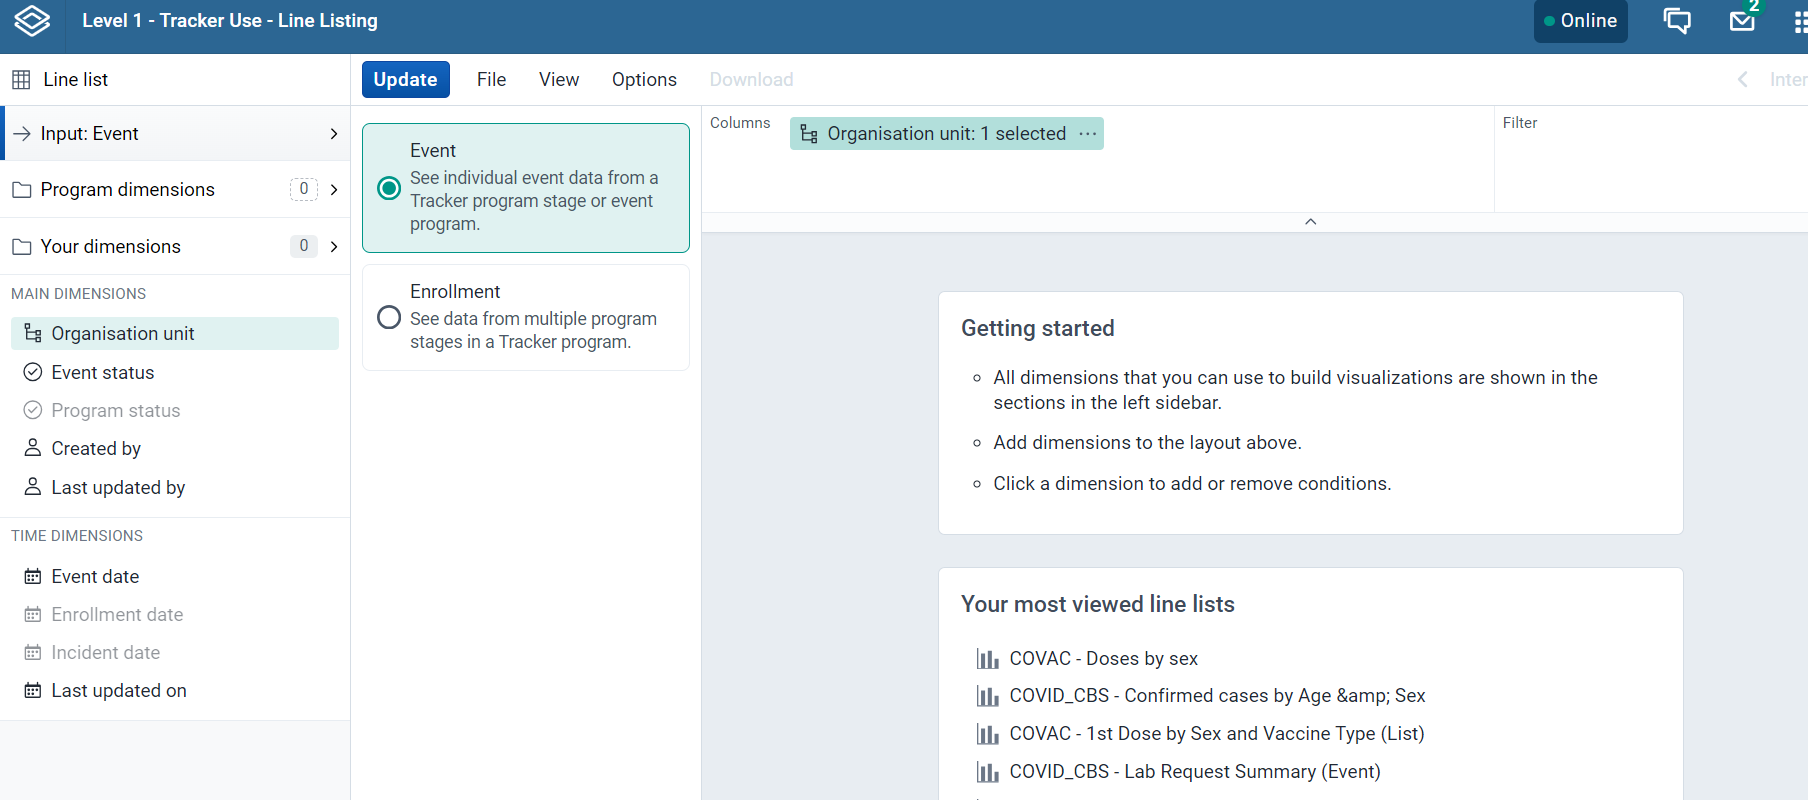
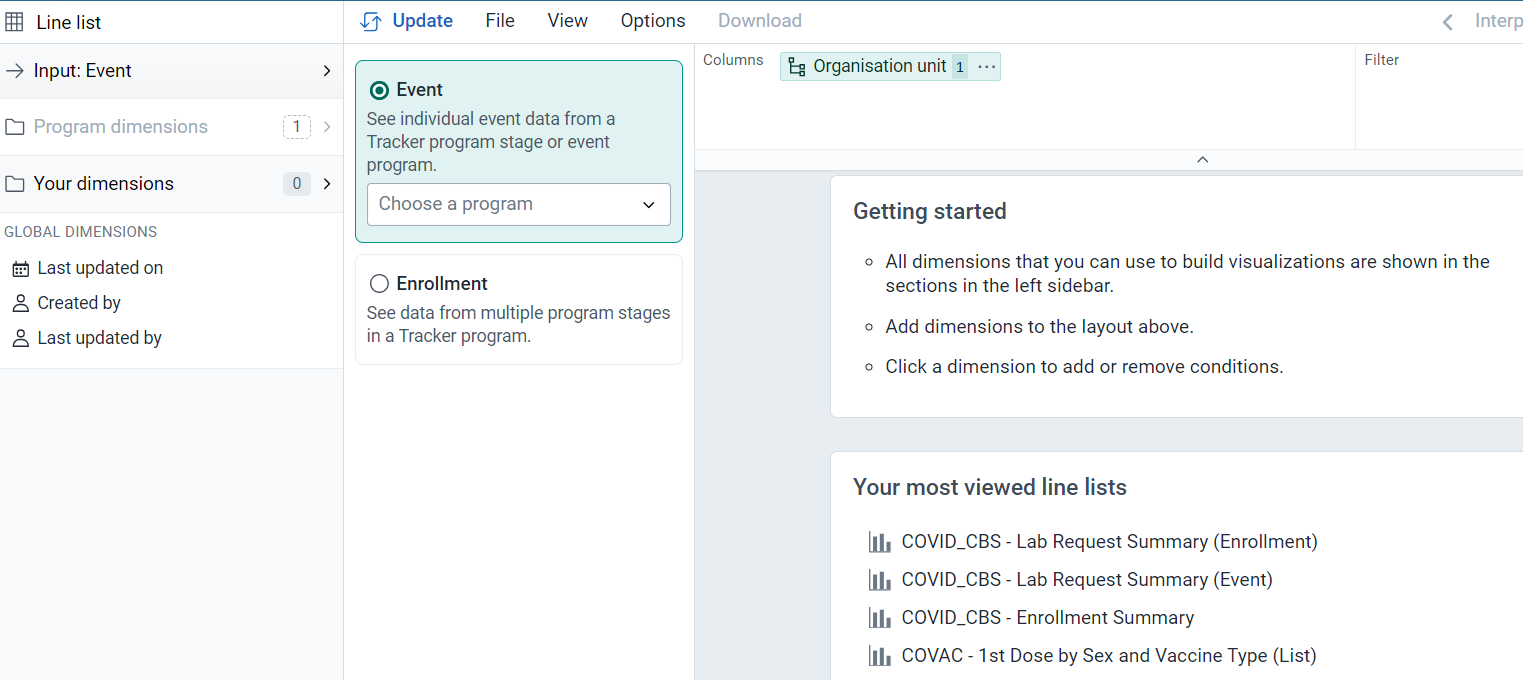
linelist

diff --git a/content/tracker_use/tg_line_list.md b/content/tracker_use/tg_line_list.md
@@ -61,7 +61,7 @@ In an in-person setting, the participants may be doing the demo with you at the 
 
 ![interface](resources/images/linelist/interface1.png)
 
-In the Line Listing app, you currently only have one type of selection which is Line list unlike eventr reports where you can have aggregate outputs.
+In the Line Listing app, you currently only have one type of selection which is Line list unlike event reports where you can have aggregate outputs.
 
 *NB: We will be using the line listing app to make line lists in this session. Therefore, we will only be using the "Pivot" table style in event reports to produce aggregate outputs. 
 
@@ -71,91 +71,174 @@ In Line List , Input can be selected as either
 * Event (see individual event data from an event program or a tracker program stage)
 * Enrollment periods (see data from multiple stages in a tracker program)
 
+If you have selected the **Event**, then for tracker programs you need to select the program stage to get all the data elements, attributes for that particular stage. To be able to select data from multiple stages you need to select "Enrollment" as the input type.
+
+If you select **Enrollment** in the Input tab then all data elements associated with the program will be available from different stages within the program for the purpose of cross stage selection of data elements. Each data element will act as a dimension.
+
+
 ![interface2](resources/images/linelist/interface2.png)
 
 ### Program dimensions
 
 In the Line Listing app, all the dimensions related to a tracker or an event program are present in the program dimension component.
 
+The line list will always be based on event or tracker programs and you can do analysis on a range of dimensions. For programs with category combinations, you can use program categories and category option group sets as dimensions.
+
+Select program: All the event and tracker programs will be visible in the drop down.
+
 ![interfacepd](resources/images/linelist/interfacepd.png)
 
+If you want to filter the data, by data elements, program attribute, program indicators, category, category option group set you can do so by clicking on the dropdown option.
 
-### Create an aggregate/pivot table event report using COVID-19 vaccination
+There are multiple ways to add data elements to the layout. They can be added by hovering over the dimension and clicking the plus icon or by dragging and dropping a dimension straight to the layout area.
 
-Open the table "COVID_CBS - Confirmed cases by Age & Sex." This the table that you will create. You can explain the layout to the participants before continuing. This should be a review as this type of table is covered in the events fundamentals online course.
+Under Global Dimension:
+You can select the data when it was 
+* Last updated on
+* Created by
+* last updated by
 
-Clear your inputs by going to Favorites -> New.
+## Create a line list program using Input : Event
 
-Create an aggregate event report. You can use the following data items as an example:
+In this exercise we will create a line list using a COVID -19 Surveillance Case Based program.
 
-- Table Style : Pivot, Output Type : Event
-- Program : COVID-19 Case Based Surveillance
-- Stage : Stage 3 - Lab Results
-- Data : Lab Test Result (select Positive as the filter), Age (apply the Age COVID-19 Legend), Sex
-- Period : This year
-- Org Unit : Country
+You can open the existing line list "Patient Line List - Temp Evalulation/Travel History
+"
 
-The table should look like this after updating:
+Clear the input by going to File <New
 
-![table1_pivot](resources/images/event_reports/table1_pivot_cbs.png)
+In this case we will be using
 
-The layout can should like this
+**Input** : Event 
 
-![table1_pivot_layout](resources/images/event_reports/table1_pivot_cbs_layout.png)
+>Note: If creating outputs of event type, then we can see the data from all events within a single program stage we are working with.
 
-You should modify some of the options, for example hiding empty rows to hide the age groups with no data, and update the table to see the effect this has
+Select Program : COVID - 19 Case-based Surveillance Program
+Select Stage: Stage 1- Clinical examination and diagnosis
 
-![table1_pivot_options](resources/images/event_reports/table1_pivot_cbs_options.png)
+**Program Dimension**: For this we will select the following program dimensions
+First Name
+Date of Birth
+Country of Residence
+Local Case ID
+Temperature
+Travel 14 days prior to onset of any symptom
 
-Note that you can modify the way data that is collected through tracker (and event) programs is aggregated. You can demonstrate this by changing the legend for the Age attribute to Age (COVAC) and updating the table.
+Select OU: CHW Mahosot
 
-![age_selection](resources/images/event_reports/table1_pivot_cbs_ageselection.png)
+Date of Consultation: Last month
 
-![table1_alternate](resources/images/event_reports/table1_pivot_cbs_alternate_age.png)
+Your Dimension should be assigned to columns and organization unit to filter.
 
-You will see all the totals are the same; however the disaggregation of the data is different.
+![](resources/images/linelist/singlestagevent.png)
 
-This should be a review of concepts from the event fundamentals; however if there are questions you can explain this concept a bit more by referring to the examples you will have on screen.
+You will see the line list for a single stage.
 
-### Other features as a refresher
+Click on update
 
-You can also show them how to save the report using the favorites menu
+![](resources/images/linelist/linelist1.png)
 
-![ev_save](resources/images/event_visualizer/ev_save_menu.png) 
 
-and download the report
+STOP! Have them perform Exercise 1 in the learner's guide
 
-![ev_download](resources/images/event_visualizer/ev_download_menu.png)
+### Create a line list program using Input : Enrollment
 
-#### STOP! Have them perform *Exercise 1* in the learner's guide.
+For this you can open the already existing linelist "Patient line list (enrollment)"
 
-### Compare aggregate/pivot table event and enrollment reports using a repeatable stage
 
-The main new concept in preparing pivot table event reports will be comparing event vs. enrollment type tables. 
+Follow the steps to create above Line list for enrollment type :
 
-Let's review an example with the following inputs
+1. Click on Input and Select Enrollement
+![](resources/images/linelist/enroll1.png)
 
-- Table Style : Pivot, Output Type : Event
-- Program : COVAC - COVID-19 Vaccination Registration
-- Stage : Vaccination
-- Data : Sex, Vaccine Name
-- Period : This year
-- Org Unit : Country
+2. Choose Program: COVID-19 Case based Surveillance
+![](resources/images/linelist/enroll2.png)
 
-This is saved as the output "COVAC - Doses by sex." *You can open this table instead of re-creating it*.
+3. Go to Program Dimension 
 
-Duplicate your tab and open the existing event report "COVAC - Registrations by sex." 
+To evaluate the across the stage we will select the following data dimensions:
 
-This report has all of the same data input selections but is using "Enrollment" as the output type instead of event.
+Stage 1 : Clinical examination and diagnosis
+* Admission date
+* Sign and symptoms cough , 
+* fever, 
+* shortness of breath
+* Temperature
+* Travel 14 days prior to onset
 
-What happens when we compare these two outputs?
+Stage 2: Lab Request
+* Date Specimen collected
+* Date Specimen sent to laboratory
+* Type of test
+* Type of Specimen
 
-![table6_comparison](resources/images/event_reports/table6_pivot_comparison_covac.png)
+Stage 3: Lab Results
+* Date of Test Result
+* Lab test Result
+* Type of Test
+* Type of Specimen
 
-The output "COVAC - Doses by sex" is useful in understanding how many actual vaccinations have been given, because the vaccination program consists of a program stage that is repeatable. This report is using "event" as the output type, meaning it will count or display data for all events in one program stage.
+4. Select OU : CHW Mahosot
 
-This is not so useful however if we want to identify the number of unique individuals that are currently in the vaccination program. The output "COVAC - Registrations by sex" shows this as it is only counting the number of enrollments based on the "Enrollment" output type that has been selected.
+5. Case Registration Date: This Month and Last Month
 
-> In summary, the "event" output type always shows data for all events within a single program stage, while the "enrollment" output type will count unique registrations and will only use data from the most recent event in its output.
 
-#### STOP! Have them perform *Exercise 2* in the learner's guide.
+![](resources/images/linelist/enroll3.png)
+
+Click on Update 
+
+![](resources/images/linelist/enroll4.png)
+
+STOP! Have them perform Exercise 2 in the learner's guide 
+
+
+### Create a line list program using Input : Oldest events and Recent events
+
+Kindly follow the steps to create above line list
+
+1. Click on the **Input** - Select“Enrollment”.
+
+2. Select **Program** :“COVID -19 Case-based Surveillance”.
+
+   ![](resources/images/linelist/enroll5.png)
+
+3. Go to **Program Dimension** and Select Data Element from Stage 2 - 
+*Lab request which is REPEATABLE in each event.*
+
+   ![](resources/images/linelist/enroll6.png)
+
+4. Click on the Data Element “Lab Test Reason” and the window will open up , where you will be able to see the Repeated event tab.
+
+   ![](resources/images/linelist/enroll7.png)
+
+5. Select contact of case
+
+   ![](resources/images/linelist/enroll8.png)
+
+6. To Select the number of times the most recent event and the oldest event : Click on Repeated Events and select value for newest and oldest.
+\
+In this case we are selecting
+Most recent events : 2
+Oldest events : 1
+
+   ![](resources/images/linelist/enroll9.png)
+
+7. Select OU: LAO
+8. Select Case Registration Date: Last 3 months 
+
+   ![](resources/images/linelist/enroll10.png)
+
+9. Click on update
+
+   ![](resources/images/linelist/enroll11.png)
+ 
+
+STOP! Have them perform Exercise 3 in the learner's guide
+
+
+
+
+
+
+
+
